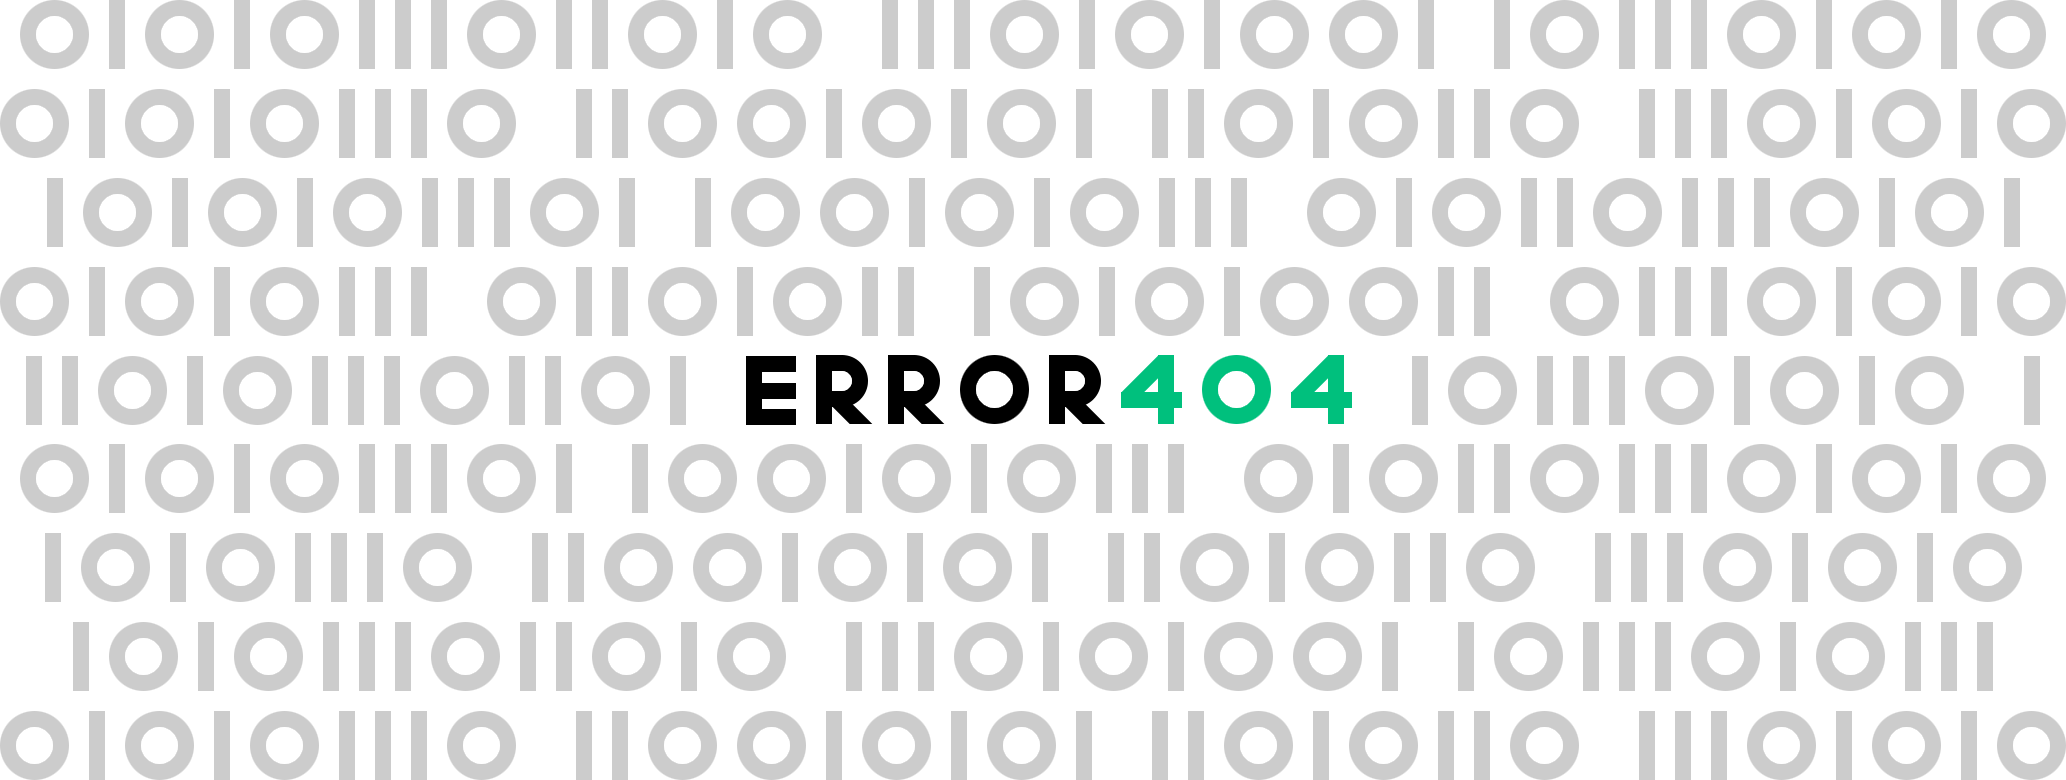
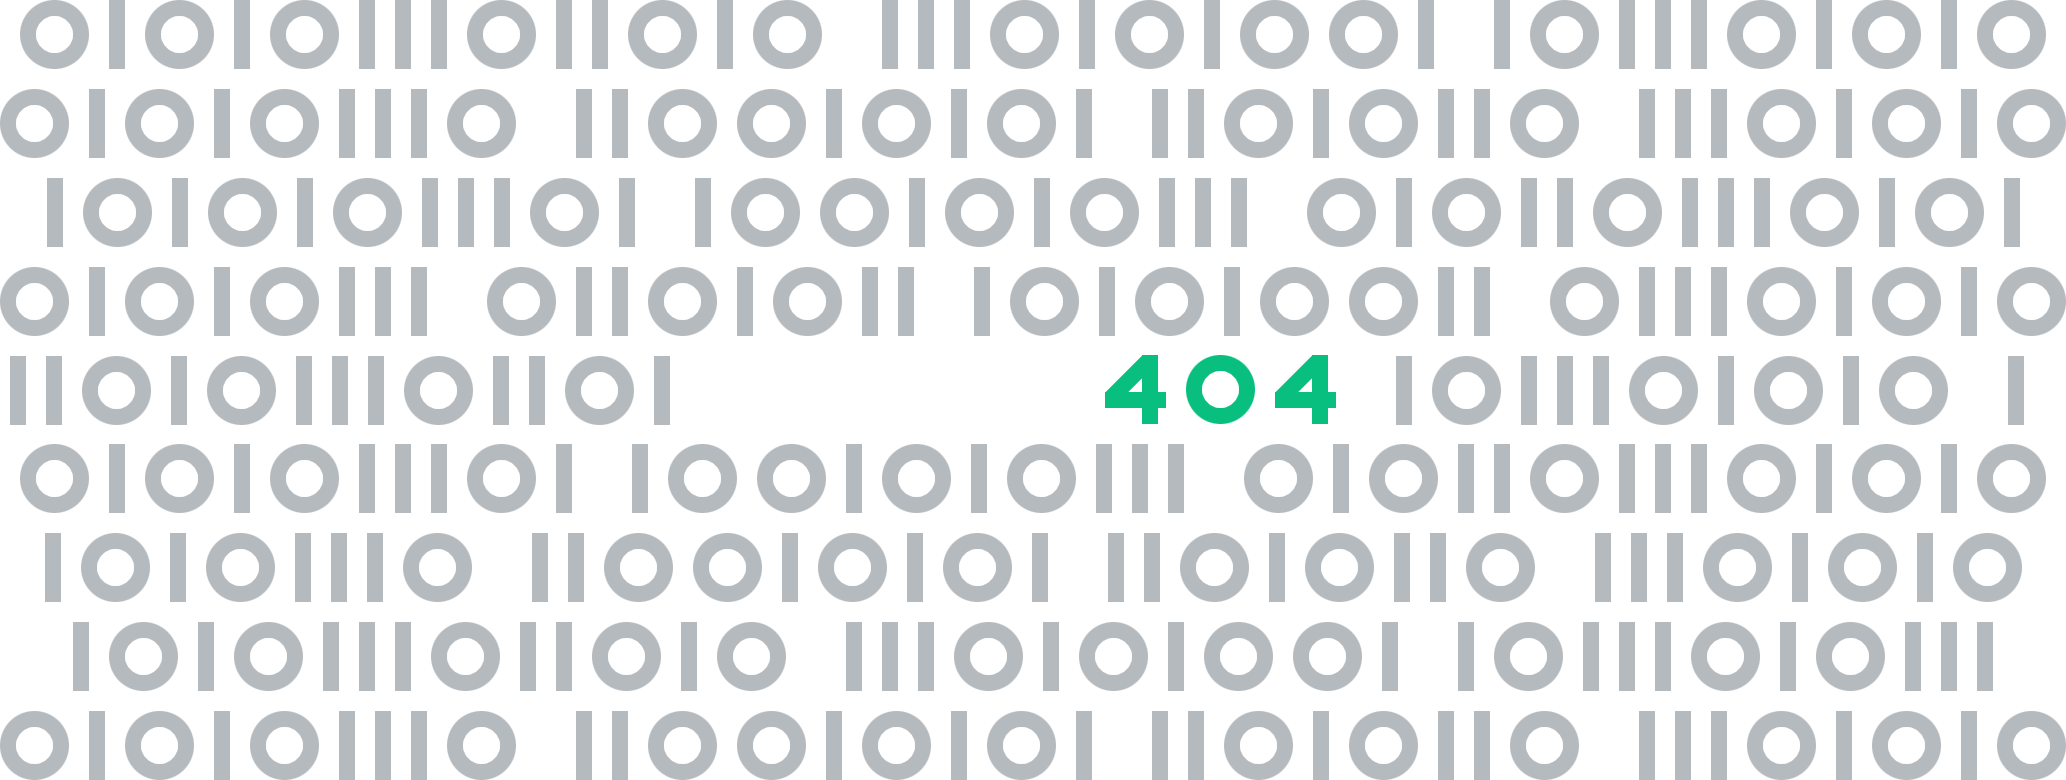
Fixed 404 page, updated ScrollToTop

Changed region(s): [[0.0, 0.4308, 0.9913, 0.5538]]

diff --git a/layouts/partials/scripts.html b/layouts/partials/scripts.html
@@ -19,4 +19,29 @@
 <!-- owl carousel -->
 <script src="/js/owl.carousel.min.js"></script>
 
+<!-- scroll to top -->
+<script>
+    onscroll = () => {
+        const scrollButton = document.querySelector('.scroll-to-top');
+        const scrollTop = pageYOffset || document.documentElement.scrollTop;
+        const totalHeight = document.documentElement.scrollHeight;
+        if (document.body.scrollTop > 20 || document.documentElement.scrollTop > 20) {
+          scrollButton.classList.add('active');
+        } else {
+          scrollButton.classList.remove('active');
+        }
+        if (totalHeight - scrollTop <= innerHeight + 100) {
+          scrollButton.style.marginBottom = '160px';
+        } else {
+          scrollButton.style.marginBottom = '';
+        }
+      }
+    
+      const scrollToTop = () => {
+          document.body.scrollTop = 0;
+          document.documentElement.scrollTop = 0;
+          console.log('scrolling');
+      }
+</script>
+
 <script> (function(){ window.ldfdr = window.ldfdr || {}; (function(d, s, ss, fs){ fs = d.getElementsByTagName(s)[0]; function ce(src){ var cs = d.createElement(s); cs.src = src; setTimeout(function(){fs.parentNode.insertBefore(cs,fs)}, 1); } ce(ss); })(document, 'script', 'https://sc.lfeeder.com/lftracker_v1_3P1w24d0Mol4mY5n.js'); })(); </script>

diff --git a/assets/scss/main.scss b/assets/scss/main.scss
@@ -1,6 +1,7 @@
 @import 'old';
 @import 'navbar';
 @import 'forside';
+@import '404';
 
 .hover-box.same-size-box.content-change-on-hoover {
     .d-flex.flex-column {
@@ -35,12 +36,11 @@
     margin-top: 20px !important;
 }
 
-#content {
-    min-height: calc(100vh - 320px);
-}
+// #content {
+//     min-height: calc(100vh - 320px);
+// }
 
 .scroll-to-top {
-    border-radius: 100vh;
     background-color: #0CBF80;
     position: fixed;
     display: flex;
@@ -48,6 +48,9 @@
     align-items: center;
     z-index: 10000;
     bottom: 30px;
+    // left: 0%;
+    // right: 0%;
+    // margin: auto;
     right: 30px;
     width: 50px;
     aspect-ratio: 1 / 1;
@@ -56,7 +59,7 @@
     pointer-events: none;
 
     span {
-        border-radius: 2px;
+        // border-radius: 2px;
         width: 12px;
         height: 12px;
         border-top: 2px solid white;
@@ -72,3 +75,8 @@
         }
     }
 }
+
+.nav-bar-button-expanded {
+    scale: 120%;
+}
+

diff --git a/layouts/404.html b/layouts/404.html
@@ -18,14 +18,10 @@
 
                 <div class="col-sm-6 col-sm-offset-3" id="error-page">
 
-                        <p class="text-center">
-                            <a href="{{ .Site.BaseURL }}">
-                                <img src="/img/404.jpg" alt="Oh no - 404 :-/" class="img-responsive">
-                            </a>
-                        </p>
-
                         <h2>Vi beklager</h2>
                         <h4 class="text-muted">Du har ramt en side, som vi ikke kender.</h4>
+
+                        <img src="img/404.png" class="error-img">
 
                         <p class="buttons"><a href="{{ .Site.BaseURL }}" class="btn btn-template-main"><i class="fa fa-home"></i> Gå til forsiden</a>
                         </p>
@@ -40,5 +36,7 @@
         {{ partial "footer.html" . }}
 
     </div>
+    
+    {{ partial "scripts.html" . }}
   </body>
 </html>

diff --git a/layouts/partials/nav.html b/layouts/partials/nav.html
@@ -1,22 +1,4 @@
 {{ if .Site.Menus.main }}
-
-<script defer>
-  const scrollButton = document.querySelector('.scroll-to-top');
-
-  onscroll = () => {
-      if (document.body.scrollTop > 20 || document.documentElement.scrollTop > 20) {
-        document.querySelector('.scroll-to-top').classList.add('active');
-      } else {
-        document.querySelector('.scroll-to-top').classList.remove('active');
-      }
-  }
-
-  const scrollToTop = () => {
-      document.body.scrollTop = 0;
-      document.documentElement.scrollTop = 0;
-      console.log('scrolling');
-  }
-</script>
 <button class="scroll-to-top" onclick="scrollToTop()">
   <span></span>
 </button>

diff --git a/static/css/styles.css b/static/css/styles.css
@@ -747,7 +747,9 @@ a:hover {
     .btn-primary {
         background: #09bf80;
         font-size: 18px !important;
-        width: 100%;
+        /* width: 100%;
+        max-width: calc(100% - 30px) !important; */
+        width: fit-content;
         line-height: 25px;
     }
 }

diff --git a/assets/scss/_404.scss b/assets/scss/_404.scss
@@ -1,0 +1,13 @@
+#error-page {
+    max-width: 100%;
+    display: flex;
+    flex-direction: column;
+    align-items: center;
+    width: 100%;
+    margin-top: 100px;
+
+    .error-img {
+        width: 100%;
+        max-width: 600px;
+    }
+}
